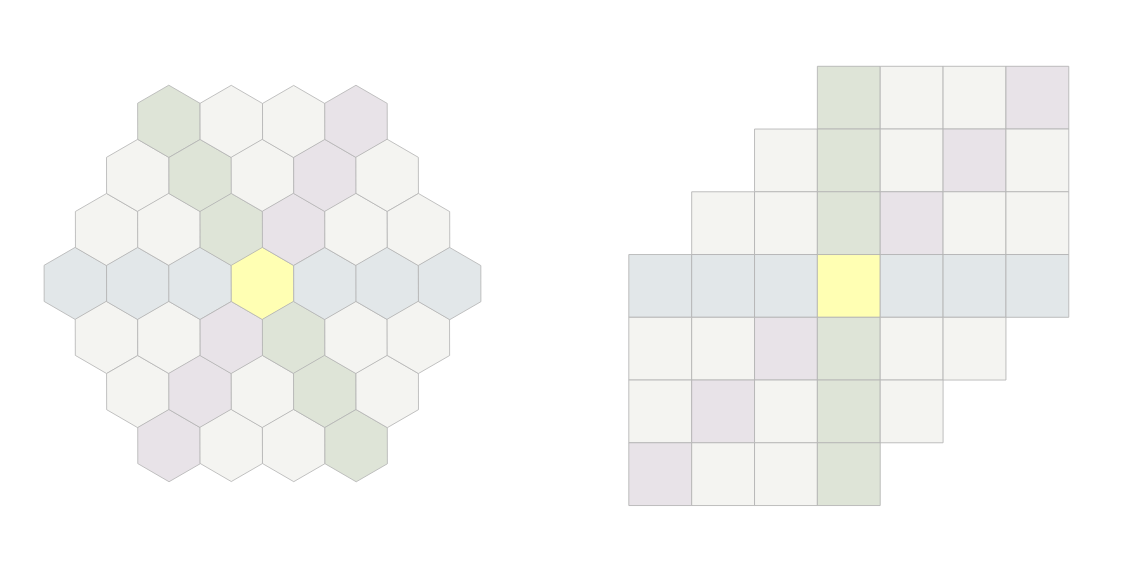
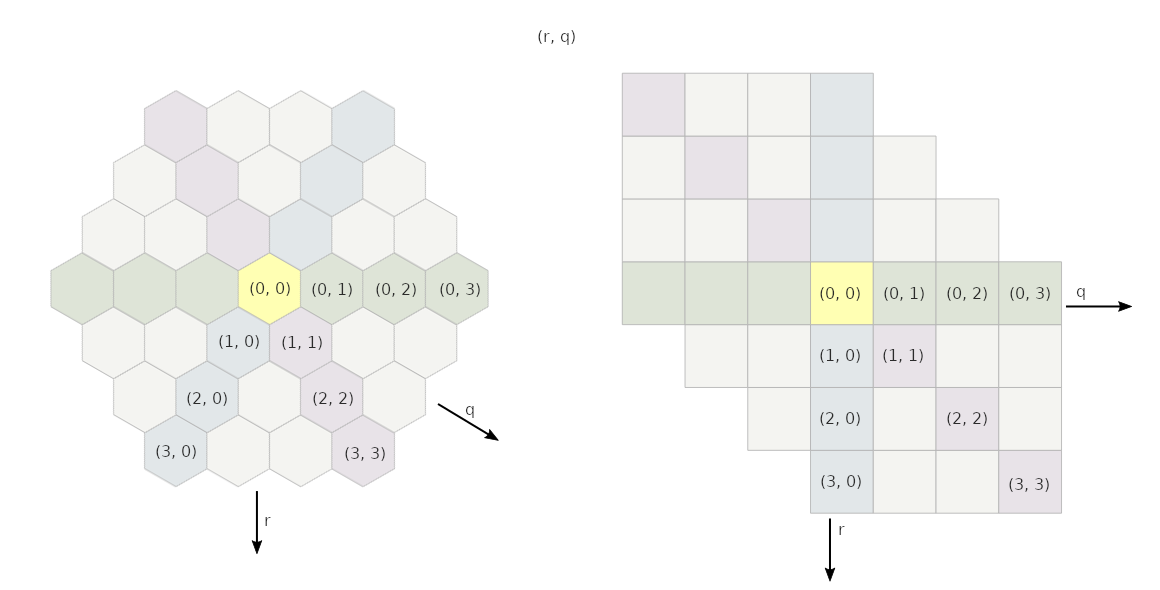
Update specification for the new UI

diff --git a/documentation/specification.md b/documentation/specification.md
@@ -13,14 +13,13 @@ The user needs to select the game mode (AIvsAI or AIvsHuman) and give the progra
 The board is printed in the console after every AI turn until one player wins the game.
 
 ### Format of the hexagonal board
-![](hexsquare.png)
-A hexagonal grid can be represented as a square grid as shown in the image above. In the MVP version, the input and output boards are formatted in the console as a square grid of ascii characters, which denote players and stack sizes.
+The input and output boards are formatted in the console as a hexagonal looking grid of ascii characters, which denote players and stack sizes.
 
-In battle sheep, finding straight lines on the board is important. The straight lines of a hex grid can be found in the square grid on the horizontal (blue), vertical (green), and ascending diagonal (purple) axes, as shown in the image. Note that the descending diagonal axis does not represent a straight line in the hex grid. You can think of the square representation as a streched out hexagon.
+In battle sheep, finding straight lines on the board is important. On the ascii grid, straight lines can be found on the horizontal, descending diagonal, and ascending diagonal axes. The vertical axis does not represent a straight line.
 
 ## Optional features
 - Easier UI for playing the human's turn in AI vs human mode.
-- Graphical (and actually hexagonal) UI for displaying the board
+- Graphical UI for displaying the board
 - Support more than 2 players
 - AI for generating the board
 
@@ -37,7 +36,8 @@ An upper bound for the number of possible games is ![](numbergames.svg). These u
 Minimax algorithm with alpha-beta pruning is used for choosing the best move. The game tree is too large to be traversed completely, so a heuristic function will be used to evaluate game states at some depth in the tree. The heuristic algorithm has not yet been decided.
 
 ## Hexagonal grid
-The hex grid is stored in a 2-dimensional array in the same way it is represented in the UI as a square grid. Empty tiles are filled with the Rust equivalent of null. Straight lines can be traversed by increasing (or decreasing) the first, second or both indexes at the same time.
+![](hexsquare.png)
+The hex grid is stored in a 2-dimensional array as a square grid as shown in the image. Unused tiles are filled with the Rust equivalent of null. Straight lines can be traversed by increasing (or decreasing) the first, second or both indexes at the same time.
 
 ## Programming language
 Rust
